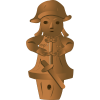
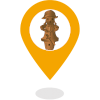
hoge

diff --git a/index.html b/index.html
@@ -43,7 +43,7 @@ body{
 }
 @media screen and (max-width:480px) {
 	.logo {
-		left: 85%;
+		left: 75%;
 	}
 }
 </style>
@@ -52,7 +52,7 @@ body{
 <div id="wrapper">
 	<div id="map"></div>
 	<div class="logo">
-		<a href="https://www.youtube.com/watch?v=mgISm6i0Y8k&feature=youtu.be" target="_blank" rel="noopener"><img src="/img/youtube_social_squircle_red.png" alt="youtube" width="32px"></a>
+		<a href="https://www.youtube.com/watch?v=mgISm6i0Y8k&feature=youtu.be" target="_blank" rel="noopener"><img src="/img/logo.png" alt="ゴーゴーたかつきこどもしんぶんしゃ" width="70"></a>
 	</div>
 </div>
 </body>
@@ -63,6 +63,8 @@ var places = [];
 <script src="/ico/ico.js"></script>
 <script src="/js/heian.js"></script>
 <script src="/js/imamura.js"></script>
+<script src="/js/maria.js"></script>
+<script src="/js/nobiteyuku.js"></script>
 <script>
 var map = L.map('map', {
 	center: [34.8516702,135.6177386],
@@ -112,11 +114,13 @@ setTimeout(function(){
 			switch(feature.properties.category){
 				case 1:	//公園
 					return L.marker( latlng, { icon: parkIco });
-				case 2:	//遊具
-					return L.marker( latlng, { icon: playIco });
-				case 5:	//はにわ、遺跡
+				case 3:	//神社仏閣
+					return L.marker( latlng, { icon: religionIco });
+				case 4:	//はにわ、遺跡
 					return L.marker( latlng, { icon: haniwaIco });
-				case 9:	//公共の建物　図書館や博物館
+				case 7:	//山、川 etc
+						return L.marker( latlng, { icon: natureIco });
+				case 8:	//公共の建物　図書館や博物館
 					return L.marker( latlng, { icon: publicIco });
 				default:
 					//アイコンなし

diff --git a/ico/ico.js b/ico/ico.js
@@ -1,15 +1,18 @@
+var iconW = 50;
+var iconH = 50;
+
 var parkIco = L.icon({
     iconUrl: './ico/park.png',
     iconRetinaUrl: './ico/park.png',
-    iconSize: [60, 60],
+    iconSize: [iconW, iconH],
     iconAnchor: [25, 50],
     popupAnchor: [0, -50],
 });
 
-var playIco = L.icon({
-    iconUrl: './ico/play.png',
-    iconRetinaUrl: './ico/play.png',
-    iconSize: [60, 60],
+var religionIco = L.icon({
+    iconUrl: './ico/religion.png',
+    iconRetinaUrl: './ico/religion.png',
+    iconSize: [iconW, iconH],
     iconAnchor: [25, 50],
     popupAnchor: [0, -50],
 });
@@ -17,7 +20,15 @@ var playIco = L.icon({
 var haniwaIco = L.icon({
     iconUrl: './ico/haniwa.png',
     iconRetinaUrl: './ico/haniwa.png',
-    iconSize: [60, 60],
+    iconSize: [iconW, iconH],
+    iconAnchor: [25, 50],
+    popupAnchor: [0, -50],
+});
+
+var natureIco = L.icon({
+    iconUrl: './ico/nature.png',
+    iconRetinaUrl: './ico/nature.png',
+    iconSize: [iconW, iconH],
     iconAnchor: [25, 50],
     popupAnchor: [0, -50],
 });
@@ -25,7 +36,7 @@ var haniwaIco = L.icon({
 var publicIco = L.icon({
     iconUrl: './ico/public.png',
     iconRetinaUrl: './ico/public.png',
-    iconSize: [60, 60],
+    iconSize: [iconW, iconH],
     iconAnchor: [25, 50],
     popupAnchor: [0, -50],
 });
